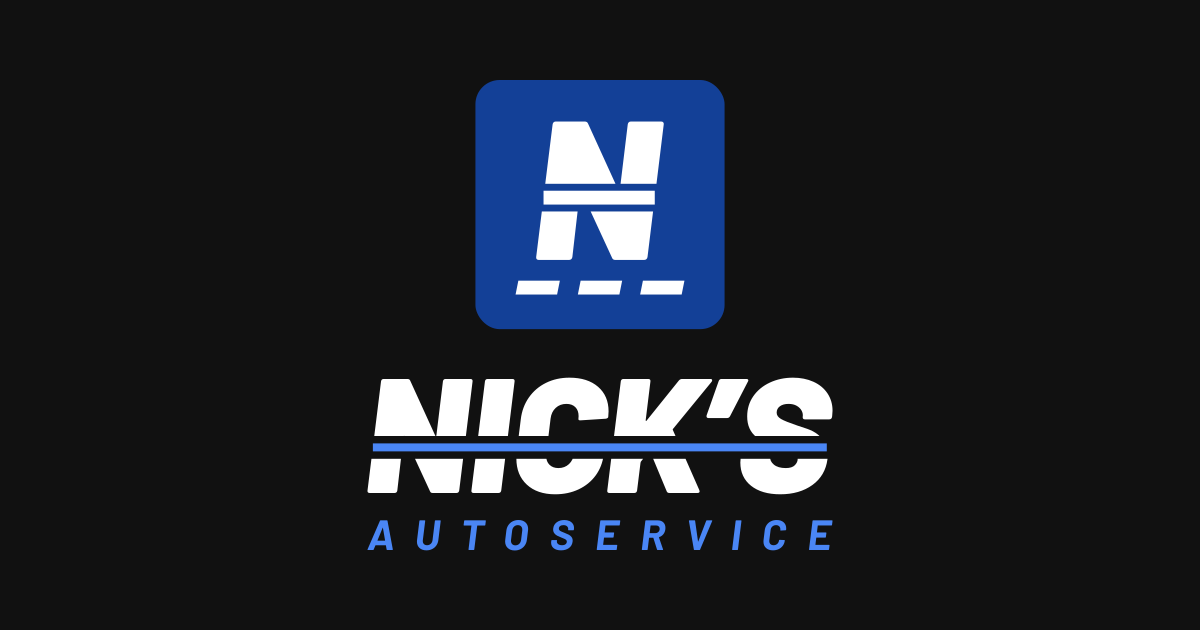
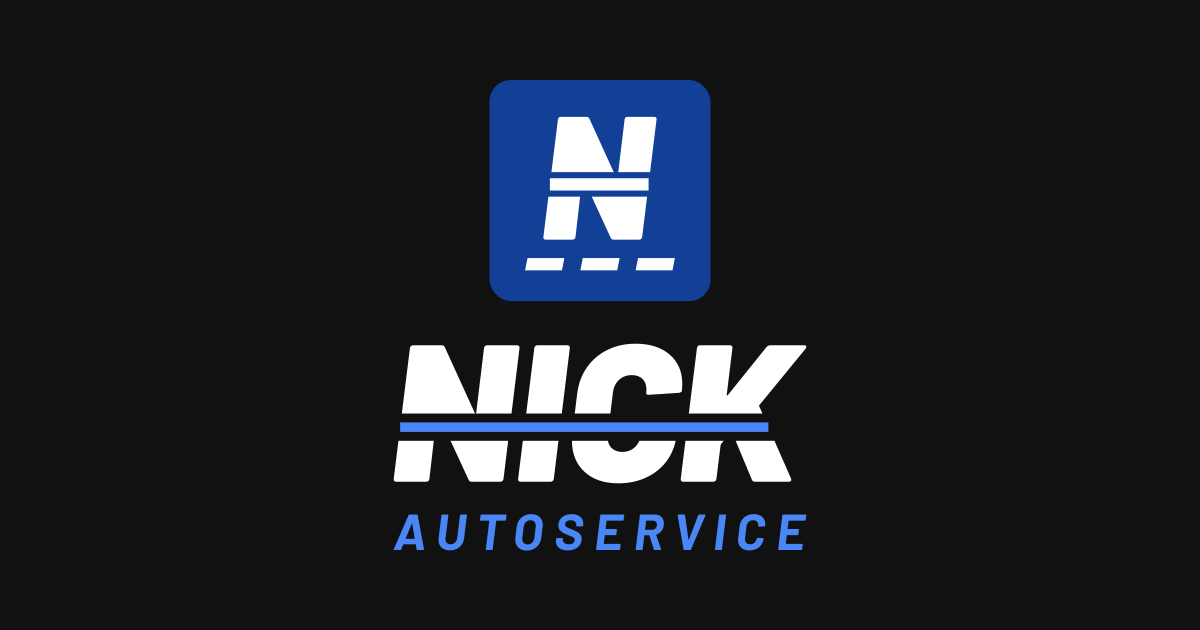
Rename the brand from Nick's to Nick
Wordmark, share image, footer, and labels now say Nick Autoservice.

Changed region(s): [[0.3083, 0.1206, 0.7092, 0.7841], [0.3083, 0.8143, 0.7092, 0.8746]]

diff --git a/index.html b/index.html
@@ -62,7 +62,7 @@
 </svg>
 
 <header class="hd" id="hd">
-  <a class="logo" href="#top" aria-label="Nick's Autoservice, home"><img src="logo.svg" alt="" width="228" height="36"></a>
+  <a class="logo" href="#top" aria-label="Nick Autoservice, home"><img src="logo.svg" alt="" width="207" height="36"></a>
   <nav class="nav" id="nav" aria-label="Main"><a href="#services">Services</a><a href="cars.html">Cars for sale</a><a href="#sell">Sell your car</a><a href="#visit">Find us</a><span class="nav-act"><a class="btn pri" href="#book" data-mode="service">Book a service</a><a class="btn" href="tel:+353894770532"><svg class="ic" aria-hidden="true"><use href="#i-phone"/></svg>Call 089 477 0532</a></span></nav>
   <div class="hd-end">
     <a class="btn pri sm hd-book" href="#book" data-mode="service">Book in</a>
@@ -74,7 +74,7 @@
 <main>
 <section class="hero" id="top" aria-labelledby="heroT">
   <article class="slide cars">
-    <video class="hvid" id="hvid" muted playsinline preload="none" poster="media/hero-night-poster.jpg" data-land="media/hero-night-once.mp4" data-port="media/hero-night-portrait-once.mp4" data-port-poster="media/hero-night-portrait-poster.jpg" role="img" aria-label="Nick's workshop at night: the lights come on over four of his cars for sale, a white BMW 730d, a blue Volkswagen Passat estate, a white Hyundai i40 and a black BMW 520d" style="--pos:58% 55%"></video>
+    <video class="hvid" id="hvid" muted playsinline preload="none" poster="media/hero-night-poster.jpg" data-land="media/hero-night-once.mp4" data-port="media/hero-night-portrait-once.mp4" data-port-poster="media/hero-night-portrait-poster.jpg" role="img" aria-label="Nick Autoservice workshop at night: the lights come on over four of his cars for sale, a white BMW 730d, a blue Volkswagen Passat estate, a white Hyundai i40 and a black BMW 520d" style="--pos:58% 55%"></video>
     <div class="sc">
       <h1 class="st" id="heroT">Servicing, repairs and cars for sale</h1>
       <p class="sd">19 Zone A, Mullingar Business Park<span class="sep">·</span><span data-status>Monday to Saturday, 9:00 to 17:00</span></p>
@@ -167,7 +167,7 @@
         <label>Mileage (km) <em>*</em><input name="km" required inputmode="numeric" placeholder="98,000"></label>
         <label>Make and model<input name="model" placeholder="Toyota Corolla"></label>
         <label>Condition<select name="cond"><option>Excellent</option><option selected>Good</option><option>Fair</option><option>Needs work</option></select></label>
-        <label>Trading in?<select name="trade"><option>No, just selling</option><option>Yes, against one of Nick's cars</option></select></label>
+        <label>Trading in?<select name="trade"><option>No, just selling</option><option>Yes, against one of Nick Autoservice's cars</option></select></label>
         <label class="full">Email<input name="email" type="email" autocomplete="email"></label>
         <label class="full">Service history, extras, damage<textarea name="notes"></textarea></label>
       </fieldset>
@@ -204,9 +204,9 @@
 <footer class="ft">
   <div class="wrap ft-main">
     <div class="ft-id">
-      <a class="ft-badge" href="#top" aria-label="Nick's Autoservice, home"><img src="logo-mark.svg" alt="" width="112" height="112" loading="lazy" decoding="async"></a>
+      <a class="ft-badge" href="#top" aria-label="Nick Autoservice, home"><img src="logo-mark.svg" alt="" width="112" height="112" loading="lazy" decoding="async"></a>
       <div>
-        <p class="ft-name">Nick’s Autoservice</p>
+        <p class="ft-name">Nick Autoservice</p>
         <address class="ft-addr">19 Zone A, Mullingar Business Park<br>Co. Westmeath</address>
       </div>
     </div>

diff --git a/cars.html b/cars.html
@@ -37,7 +37,7 @@
 </svg>
 
 <header class="hd" id="hd">
-  <a class="logo" href="index.html" aria-label="Nick's Autoservice, home"><img src="logo.svg" alt="" width="228" height="36"></a>
+  <a class="logo" href="index.html" aria-label="Nick Autoservice, home"><img src="logo.svg" alt="" width="207" height="36"></a>
   <nav class="nav" id="nav" aria-label="Main"><a href="index.html#services">Services</a><a href="cars.html" aria-current="page">Cars for sale</a><a href="index.html#sell">Sell your car</a><a href="index.html#visit">Find us</a><span class="nav-act"><a class="btn pri" href="index.html#book">Book a service</a><a class="btn" href="tel:+353894770532"><svg class="ic" aria-hidden="true"><use href="#i-phone"/></svg>Call 089 477 0532</a></span></nav>
   <div class="hd-end">
     <a class="btn pri sm hd-book" href="index.html#book">Book in</a>
@@ -77,9 +77,9 @@
 <footer class="ft">
   <div class="wrap ft-main">
     <div class="ft-id">
-      <a class="ft-badge" href="index.html" aria-label="Nick's Autoservice, home"><img src="logo-mark.svg" alt="" width="112" height="112" loading="lazy" decoding="async"></a>
+      <a class="ft-badge" href="index.html" aria-label="Nick Autoservice, home"><img src="logo-mark.svg" alt="" width="112" height="112" loading="lazy" decoding="async"></a>
       <div>
-        <p class="ft-name">Nick’s Autoservice</p>
+        <p class="ft-name">Nick Autoservice</p>
         <address class="ft-addr">19 Zone A, Mullingar Business Park<br>Co. Westmeath</address>
       </div>
     </div>

diff --git a/car.html b/car.html
@@ -36,7 +36,7 @@
 </svg>
 
 <header class="hd" id="hd">
-  <a class="logo" href="index.html" aria-label="Nick's Autoservice, home"><img src="logo.svg" alt="" width="228" height="36"></a>
+  <a class="logo" href="index.html" aria-label="Nick Autoservice, home"><img src="logo.svg" alt="" width="207" height="36"></a>
   <nav class="nav" id="nav" aria-label="Main"><a href="index.html#services">Services</a><a href="cars.html">Cars for sale</a><a href="index.html#sell">Sell your car</a><a href="index.html#visit">Find us</a><span class="nav-act"><a class="btn pri" href="index.html#book">Book a service</a><a class="btn" href="tel:+353894770532"><svg class="ic" aria-hidden="true"><use href="#i-phone"/></svg>Call 089 477 0532</a></span></nav>
   <div class="hd-end">
     <a class="btn pri sm hd-book" href="index.html#book">Book in</a>
@@ -51,9 +51,9 @@
 <footer class="ft">
   <div class="wrap ft-main">
     <div class="ft-id">
-      <a class="ft-badge" href="index.html" aria-label="Nick's Autoservice, home"><img src="logo-mark.svg" alt="" width="112" height="112" loading="lazy" decoding="async"></a>
+      <a class="ft-badge" href="index.html" aria-label="Nick Autoservice, home"><img src="logo-mark.svg" alt="" width="112" height="112" loading="lazy" decoding="async"></a>
       <div>
-        <p class="ft-name">Nick’s Autoservice</p>
+        <p class="ft-name">Nick Autoservice</p>
         <address class="ft-addr">19 Zone A, Mullingar Business Park<br>Co. Westmeath</address>
       </div>
     </div>
